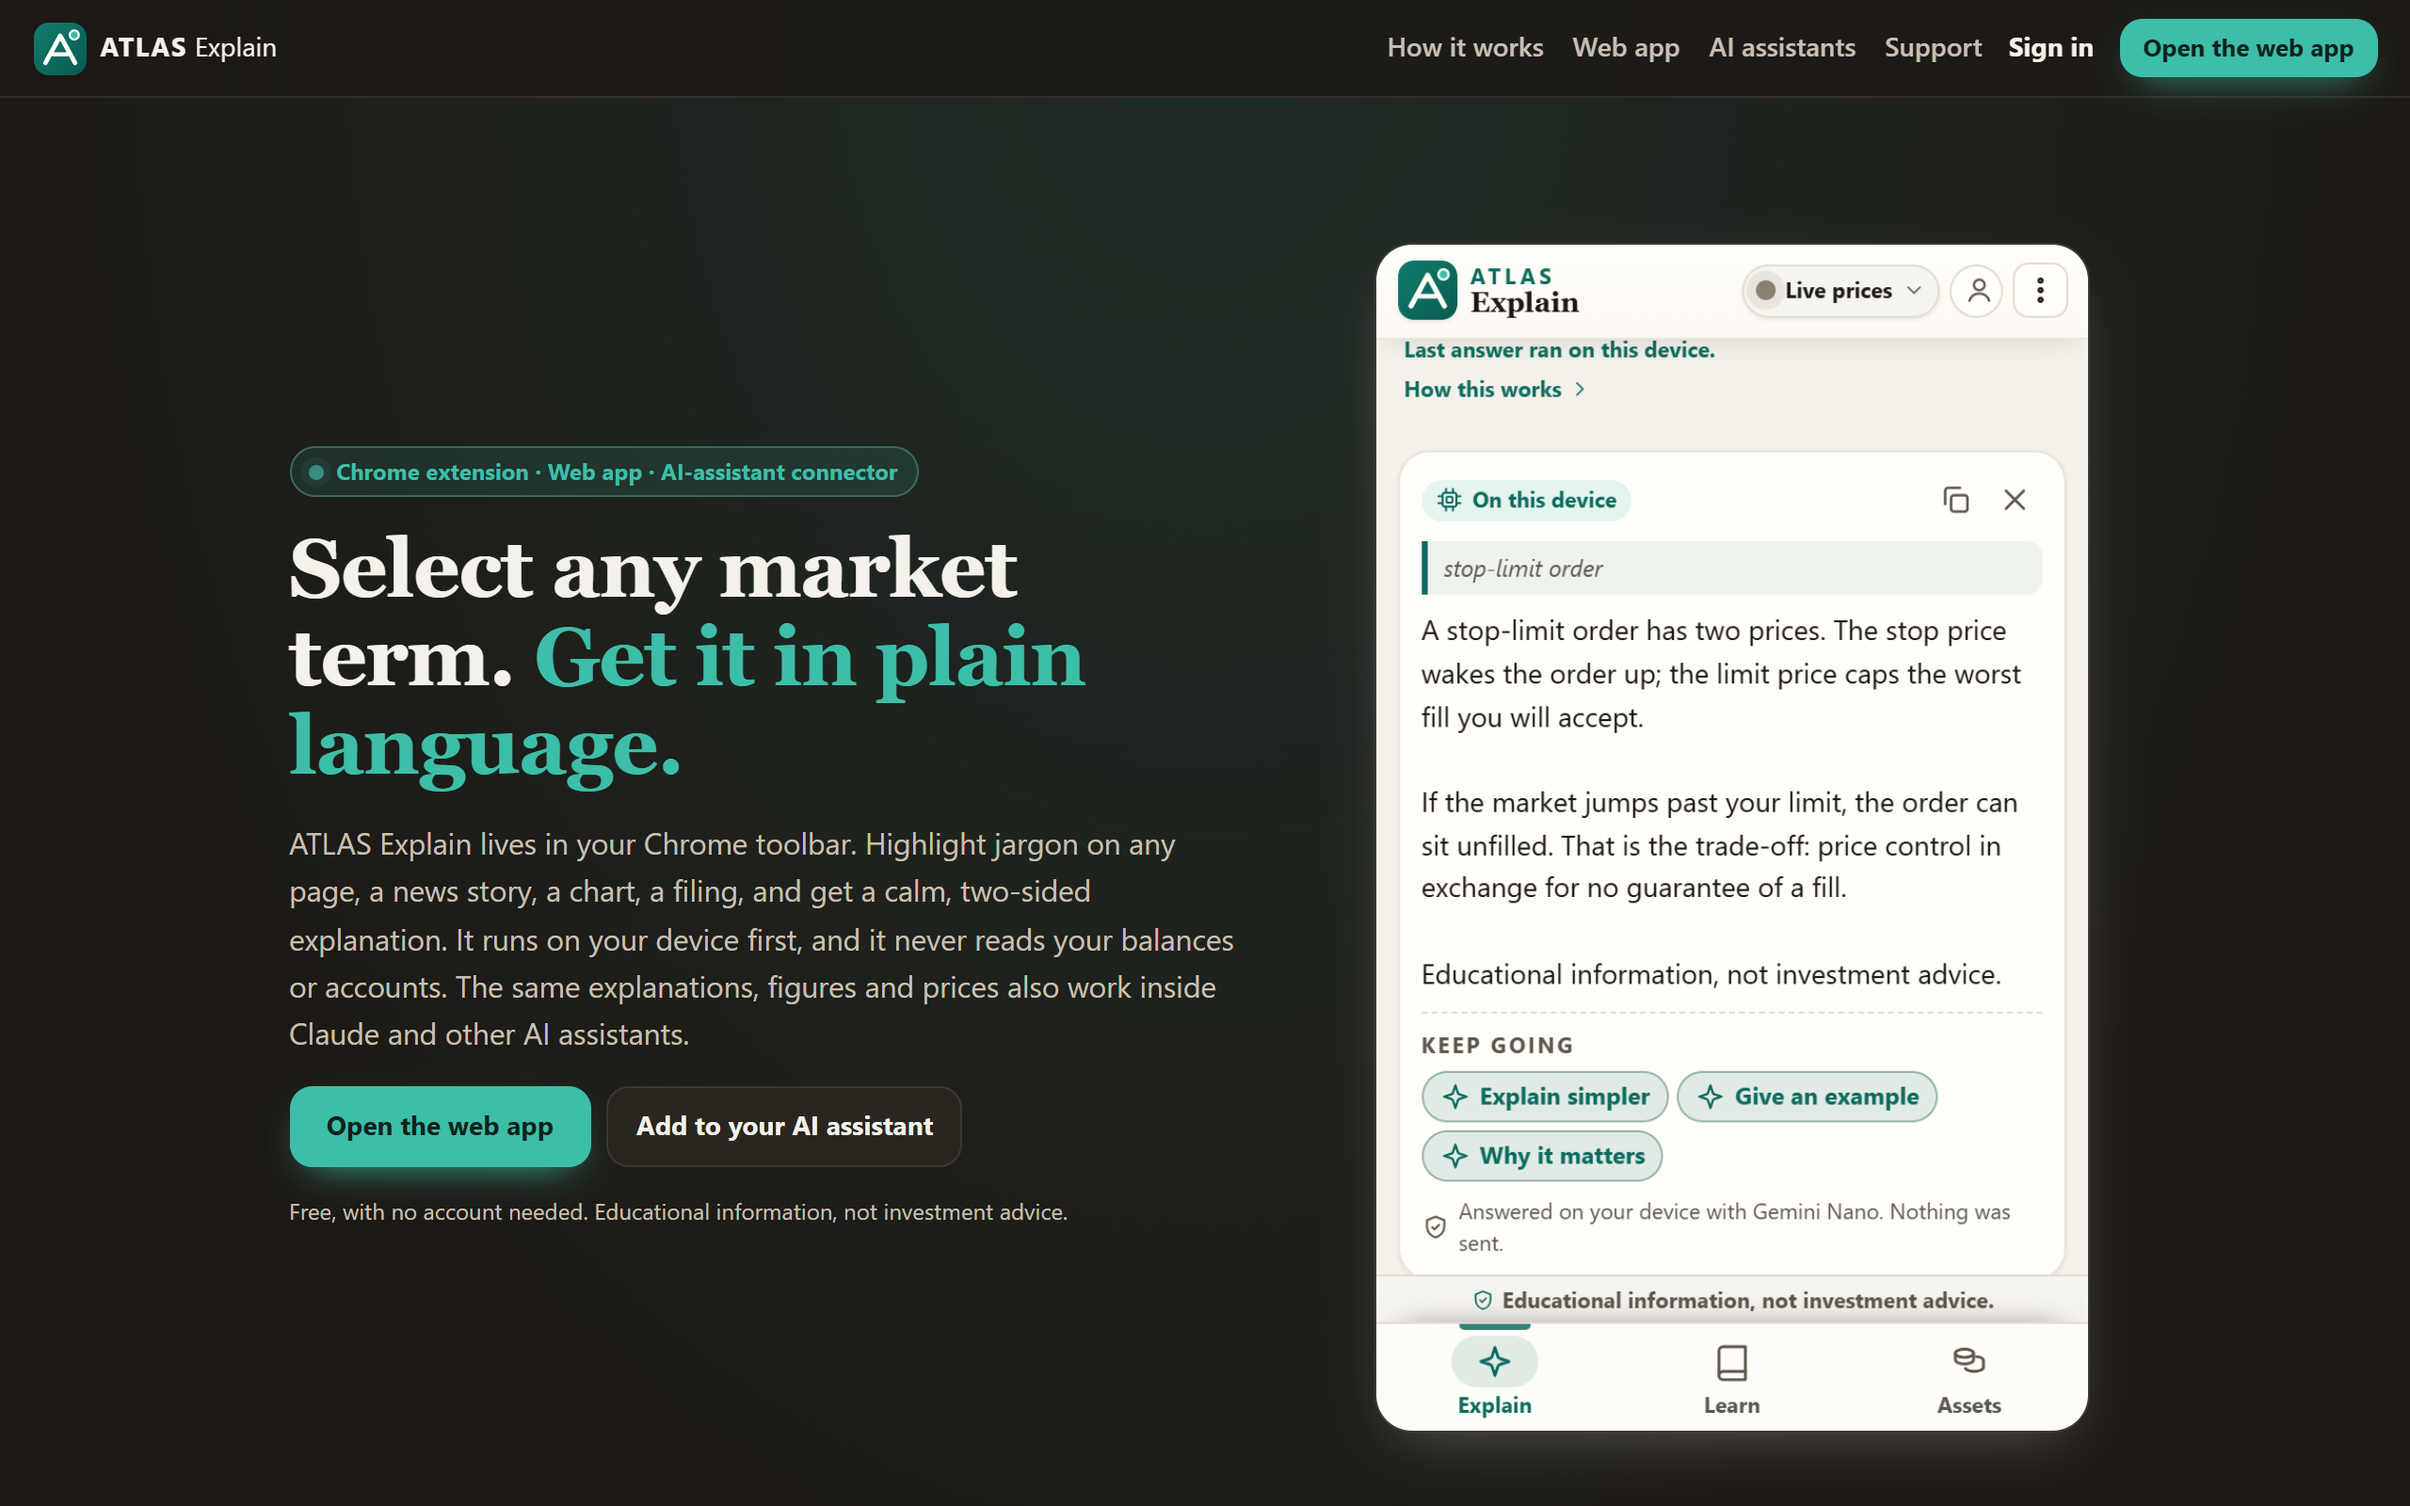
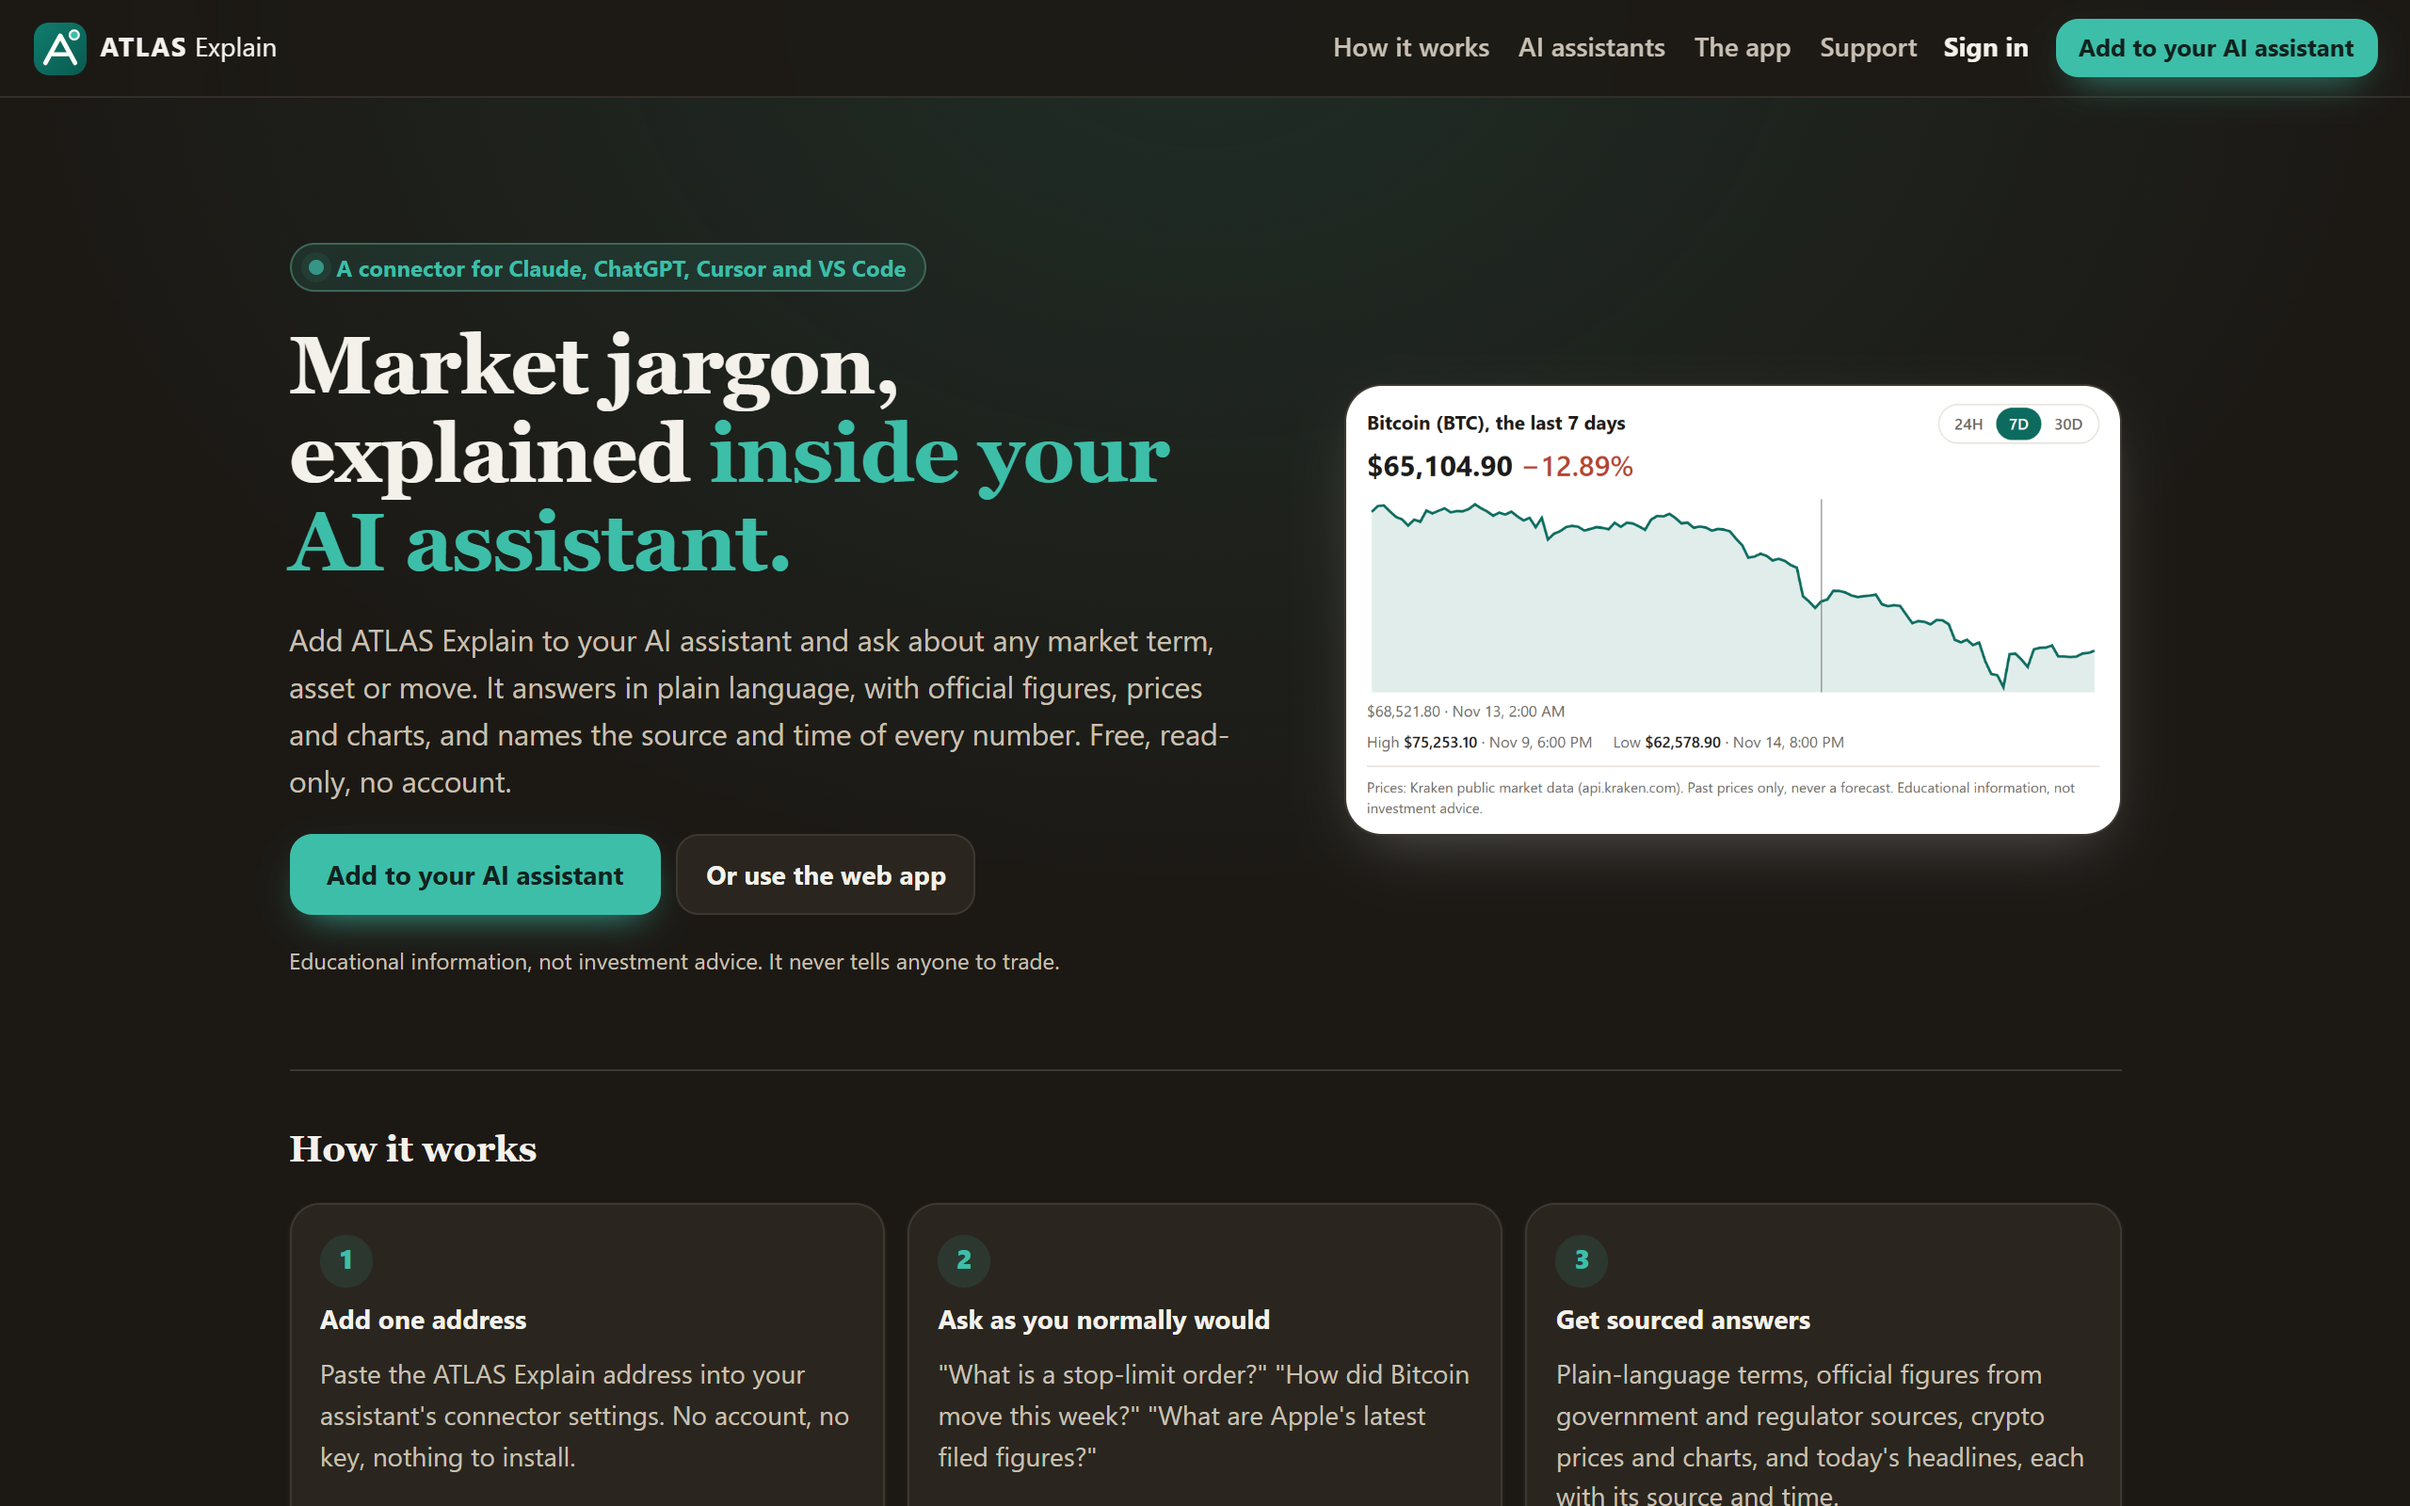
chore: bring everything up to date
- ESLint 10.15.0 (TypeScript stays on 6.0.3 until after the hackathon).
- Retake the website and app stills from the live site (connector-first Home).
- HANDOVER: main-only branch rule, how to refresh the data site without
  emptying a part that fails (PREVIOUS_URL), dependency status.

diff --git a/docs/HANDOVER.md b/docs/HANDOVER.md
@@ -28,6 +28,8 @@ ATLAS Explain is a hosted MCP connector for AI assistants, plus a website and we
 - Deploy the website with `npx firebase-tools deploy --only hosting --non-interactive`. Add functions or Firestore rules to that deploy only when they change.
 - Firestore rules tests: `npm run test:rules`. These need Java 21; a portable JDK was used last time, nothing was installed system-wide. CI also runs them.
 - `gh` is not signed in. Push branches and give the owner the compare URL.
+- Branches: on 16 Nov 2026 the owner asked for `main` only. All 34 merged branches were deleted on GitHub and locally. Work on a short-lived branch, merge it into `main` with the owner's go-ahead, then delete it.
+- Dependencies (16 Nov 2026): up to date except TypeScript, held at 6.0.3. TypeScript 7 is a major release; try it after the hackathon (30 Nov), not before.
 - Many files use CRLF line endings. For multi-line edits, write a small Node script instead of a shell heredoc.
 - Take screenshots at 1440 px and 390 px wide. At 390 px, use the CDP device-metrics override, because headless window sizes clip.
 - App Check (reCAPTCHA Enterprise) blocks headless Chrome, so cloud answers can't be tested headlessly.
@@ -88,7 +90,7 @@ ATLAS Explain is a hosted MCP connector for AI assistants, plus a website and we
    - Optionally sync text-explanation history to the account.
 4. **Chrome extension removed (15 Nov 2026):** nothing to submit to the Chrome Web Store. `docs/AUDIT.md` and `docs/ux/` still describe the extension as history; don't follow them for current work.
 6. **Platform scan (`feat/platform-scan`, 15 Nov 2026):** Today shows GDELT headlines with "Explain" (they show an honest "nothing recent enough" note until the hourly data job runs again); Learn links to the practice page; crypto charts have 24H/7D/30D ranges and a price readout; spread, stop-limit and yield-curve terms have diagrams; and a read-only MCP server for AI assistants.
-7. **Online only (15 Nov 2026, owner decision):** people never download anything. The MCP server is hosted on Cloudflare Workers free plan (`src/mcp/http.ts`, `src/mcp/worker.ts`, `wrangler.toml`); there is no download-and-run version. It is live at `https://atlas-explain-mcp.atlas-explain.workers.dev/mcp?v=2` (the `?v=2` is deliberate: see "If Claude shows Couldn't register" in `docs/MCP.md`) (deployed 15 Nov 2026 from the owner's Cloudflare account; `MCP_URL` in `src/core/links.ts` is set, so Support shows the connector steps). Redeploy it with `npm run deploy:mcp` after changing `src/mcp/`. Since 15 Nov 2026 it also has structured output (outputSchema/structuredContent on every data tool), an interactive MCP App chart for price_history (`src/mcp/chart-app.ts`), three prompts, icons, and `server.json` for the MCP Registry (owner publishes it; see `docs/MCP.md`, "Getting listed"). Since 15 Nov 2026 it is dual-era: MCP 2026-07-28 (stateless: `server/discover`, per-request `_meta`, header validation, `resultType`, caching hints) alongside the `initialize`-based versions; the glossary is also served as resources; server version 1.4.0. It has seven tools matching the app (glossary and learning path, asset details, official figures including SEC company figures, live crypto prices and price history with a Kraken fallback, headlines); see `docs/MCP.md`. While GitHub Actions is locked, the data site can be refreshed by hand: `node scripts/data/build-data.ts` then `npx firebase-tools deploy --only hosting --config firebase.data.json --project atlas-explain` (done 15 Nov 2026, 22:25 UTC; EIA skipped without its key). The repository stays public with one footer "Source" link, because the hackathon needs it.
+7. **Online only (15 Nov 2026, owner decision):** people never download anything. The MCP server is hosted on Cloudflare Workers free plan (`src/mcp/http.ts`, `src/mcp/worker.ts`, `wrangler.toml`); there is no download-and-run version. It is live at `https://atlas-explain-mcp.atlas-explain.workers.dev/mcp?v=2` (the `?v=2` is deliberate: see "If Claude shows Couldn't register" in `docs/MCP.md`) (deployed 15 Nov 2026 from the owner's Cloudflare account; `MCP_URL` in `src/core/links.ts` is set, so Support shows the connector steps). Redeploy it with `npm run deploy:mcp` after changing `src/mcp/`. Since 15 Nov 2026 it also has structured output (outputSchema/structuredContent on every data tool), an interactive MCP App chart for price_history (`src/mcp/chart-app.ts`), three prompts, icons, and `server.json` for the MCP Registry (owner publishes it; see `docs/MCP.md`, "Getting listed"). Since 15 Nov 2026 it is dual-era: MCP 2026-07-28 (stateless: `server/discover`, per-request `_meta`, header validation, `resultType`, caching hints) alongside the `initialize`-based versions; the glossary is also served as resources; server version 1.4.0. It has seven tools matching the app (glossary and learning path, asset details, official figures including SEC company figures, live crypto prices and price history with a Kraken fallback, headlines); see `docs/MCP.md`. While GitHub Actions is locked, the data site can be refreshed by hand: `node scripts/data/build-data.ts` then `npx firebase-tools deploy --only hosting --config firebase.data.json --project atlas-explain` (last done 16 Nov 2026, 11:42 UTC; set `PREVIOUS_URL=https://atlas-explain-data.web.app/data/v1/market.json` first, or anything that fails, such as GDELT headlines, is published empty instead of keeping its last values; EIA is skipped without its key). The repository stays public with one footer "Source" link, because the hackathon needs it.
 8. **One site frame (15 Nov 2026):** the seven public pages hold only `<!-- site:header page -->` and `<!-- site:footer -->` markers; `src/site/frame.ts` is the one header and footer, filled in by the build (vite.config.ts) and by tests (`test/site-page.ts`). The MCP address is also filled in at build time, so `src/site/site.ts` only handles old-link redirects. Change navigation there, never in a page.
 9. **Hackathon:** before 30 Nov, re-check `docs/SUBMISSION.md` and `docs/DEMO.md` against the current app. The demo is connector first (Claude), then the web app with Gemini Nano.
 

diff --git a/docs/DEMO.md b/docs/DEMO.md
@@ -65,9 +65,9 @@ https://atlas-explain.web.app opens with the home page: "Market jargon, explaine
 
 ## Still frames for the README
 
-Stills in `docs/screenshots/`. `site-home`, `site-connect`, `signin`, `hosted-header` and `hosted-full` are captured from the live site by `node store/src/capture-site.mjs` (last run 15 Nov 2026, after the Sign in page shipped); `local-header.png` and `desk-explain-link.png` are older:
+Stills in `docs/screenshots/`. `site-home`, `site-connect`, `signin`, `hosted-header` and `hosted-full` are captured from the live site by `node store/src/capture-site.mjs` (last run 16 Nov 2026, after the site went connector first and the extension was removed); `local-header.png` and `desk-explain-link.png` are older:
 
-- `site-home.png`: the website home page, connector first (retake after the 15 Nov 2026 MCP-first change)
+- `site-home.png`: the website home page, connector first
 - `site-connect.png`: ATLAS Explain for AI assistants (/connect), with the connector address
 - `signin.png`: the Sign in page (/signin)
 
